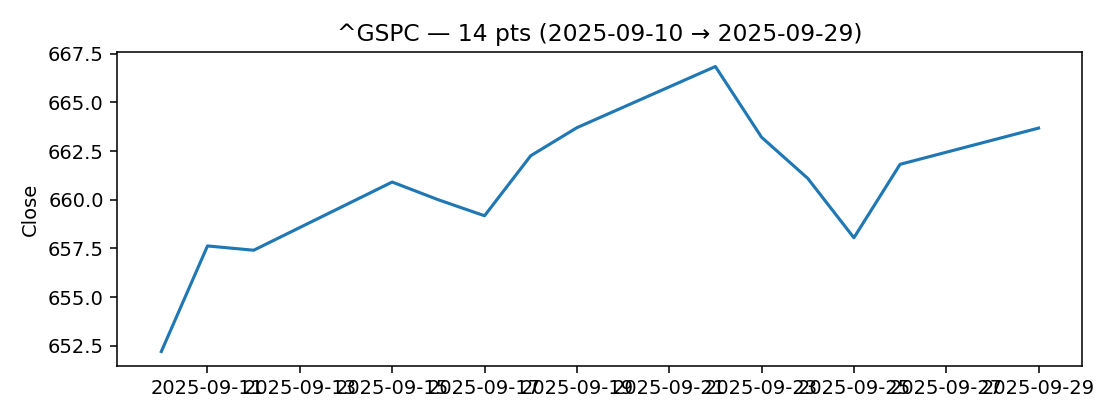
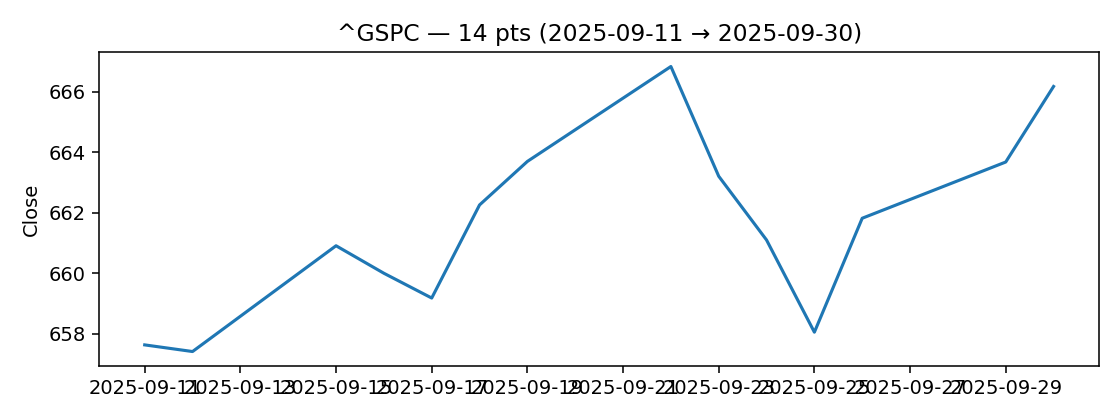
chore: update daily report 2025-10-01 08:52

diff --git a/docs/daily_report.html b/docs/daily_report.html
@@ -108,7 +108,7 @@
   <header>
     <div>
       <h1>Daily Study & News Companion</h1>
-      <div class="sub">2025-09-30 08:08 · TZ: CST</div>
+      <div class="sub">2025-10-01 08:37 · TZ: CST</div>
     </div>
     <button class="btn" id="themeBtn">🌓 Tema</button>
   </header>
@@ -150,11 +150,11 @@
           </div>
           <div class="mkt-body">
             <div class="metrics-row">
-          <div class="kv"><span>Last</span><b>222.17</b></div>
-          <div class="kv"><span>d/d</span><b class="down">-3.54%</b></div>
+          <div class="kv"><span>Last</span><b>219.57</b></div>
+          <div class="kv"><span>d/d</span><b class="down">-4.51%</b></div>
           <div class="kv"><span>Mín</span><b>218.15</b></div>
           <div class="kv"><span>Máx</span><b>234.05</b></div>
-          <div class="kv"><span>σ</span><b>5.27</b></div>
+          <div class="kv"><span>σ</span><b>5.50</b></div>
         </div>
             <div class="chart"><img src="charts/AMZN_close.png" alt="AMZN chart" loading="lazy"/></div>
           </div>
@@ -167,11 +167,11 @@
           </div>
           <div class="mkt-body">
             <div class="metrics-row">
-          <div class="kv"><span>Last</span><b>514.60</b></div>
-          <div class="kv"><span>d/d</span><b class="up">2.84%</b></div>
-          <div class="kv"><span>Mín</span><b>500.37</b></div>
-          <div class="kv"><span>Máx</span><b>517.93</b></div>
-          <div class="kv"><span>σ</span><b>4.79</b></div>
+          <div class="kv"><span>Last</span><b>517.95</b></div>
+          <div class="kv"><span>d/d</span><b class="up">3.38%</b></div>
+          <div class="kv"><span>Mín</span><b>501.01</b></div>
+          <div class="kv"><span>Máx</span><b>517.95</b></div>
+          <div class="kv"><span>σ</span><b>4.41</b></div>
         </div>
             <div class="chart"><img src="charts/MSFT_close.png" alt="MSFT chart" loading="lazy"/></div>
           </div>
@@ -184,11 +184,11 @@
           </div>
           <div class="mkt-body">
             <div class="metrics-row">
-          <div class="kv"><span>Last</span><b>181.85</b></div>
-          <div class="kv"><span>d/d</span><b class="up">2.55%</b></div>
+          <div class="kv"><span>Last</span><b>186.58</b></div>
+          <div class="kv"><span>d/d</span><b class="up">5.31%</b></div>
           <div class="kv"><span>Mín</span><b>170.29</b></div>
-          <div class="kv"><span>Máx</span><b>183.61</b></div>
-          <div class="kv"><span>σ</span><b>2.92</b></div>
+          <div class="kv"><span>Máx</span><b>186.58</b></div>
+          <div class="kv"><span>σ</span><b>3.74</b></div>
         </div>
             <div class="chart"><img src="charts/NVDA_close.png" alt="NVDA chart" loading="lazy"/></div>
           </div>
@@ -201,11 +201,11 @@
           </div>
           <div class="mkt-body">
             <div class="metrics-row">
-          <div class="kv"><span>Last</span><b>443.21</b></div>
-          <div class="kv"><span>d/d</span><b class="up">27.44%</b></div>
-          <div class="kv"><span>Mín</span><b>347.79</b></div>
-          <div class="kv"><span>Máx</span><b>443.21</b></div>
-          <div class="kv"><span>σ</span><b>26.84</b></div>
+          <div class="kv"><span>Last</span><b>444.72</b></div>
+          <div class="kv"><span>d/d</span><b class="up">20.58%</b></div>
+          <div class="kv"><span>Mín</span><b>368.81</b></div>
+          <div class="kv"><span>Máx</span><b>444.72</b></div>
+          <div class="kv"><span>σ</span><b>20.00</b></div>
         </div>
             <div class="chart"><img src="charts/TSLA_close.png" alt="TSLA chart" loading="lazy"/></div>
           </div>
@@ -218,11 +218,11 @@
           </div>
           <div class="mkt-body">
             <div class="metrics-row">
-          <div class="kv"><span>Last</span><b>663.68</b></div>
-          <div class="kv"><span>d/d</span><b class="up">1.76%</b></div>
-          <div class="kv"><span>Mín</span><b>652.21</b></div>
+          <div class="kv"><span>Last</span><b>666.18</b></div>
+          <div class="kv"><span>d/d</span><b class="up">1.30%</b></div>
+          <div class="kv"><span>Mín</span><b>657.41</b></div>
           <div class="kv"><span>Máx</span><b>666.84</b></div>
-          <div class="kv"><span>σ</span><b>3.46</b></div>
+          <div class="kv"><span>σ</span><b>2.87</b></div>
         </div>
             <div class="chart"><img src="charts/^GSPC_close.png" alt="^GSPC chart" loading="lazy"/></div>
           </div>
@@ -250,38 +250,38 @@
             <ul class="news-list">
               <li class="news-item" data-topic="AI">
                 <span class="dot"></span>
-                <a href="https://www.bloomberg.com/news/articles/2025-09-30/alphabet-s-ai-strength-fuels-biggest-quarterly-jump-since-2005" target="_blank" rel="noreferrer">Alphabet’s AI Strength Fuels Biggest Quarterly Jump Since 2005</a>
-                <div class="meta">2025-09-30 13:46 · <span class="src">Ryan Vlastelica</span></div>
+                <a href="https://www.bloomberg.com/news/articles/2025-10-01/google-smart-home-revamp-2k-cameras-doorbell-home-speaker-and-gemini-ai" target="_blank" rel="noreferrer">Google Brings Gemini AI to the Home With New Cameras, Doorbell and Speaker</a>
+                <div class="meta">2025-10-01 13:00 · <span class="src">Chris Welch</span></div>
               </li>
             
               <li class="news-item" data-topic="AI">
                 <span class="dot"></span>
-                <a href="https://www.bloomberg.com/news/articles/2025-09-30/ai-computing-chip-startup-cerebras-systems-raises-1-1-billion" target="_blank" rel="noreferrer">AI Computing, Chip Startup Cerebras Systems Raises $1.1 Billion</a>
-                <div class="meta">2025-09-30 13:00 · <span class="src">Ian King</span></div>
+                <a href="https://www.bloomberg.com/news/articles/2025-10-01/google-s-europe-boss-calls-for-changes-to-problematic-eu-rules" target="_blank" rel="noreferrer">Google’s Europe Boss Calls for Changes to ‘Problematic’ EU Rules</a>
+                <div class="meta">2025-10-01 12:04 · <span class="src">Mark Bergen</span></div>
               </li>
             
               <li class="news-item" data-topic="AI">
                 <span class="dot"></span>
-                <a href="https://www.ft.com/content/908dc05b-5fcd-456a-88a3-eba1f77d3ffd" target="_blank" rel="noreferrer">OpenAI’s era-defining money furnace</a>
-                <div class="meta">2025-09-30 11:54 · <span class="src">www.ft.com</span></div>
+                <a href="https://www.bloomberg.com/news/articles/2025-10-01/peloton-launches-new-bike-tread-row-with-ai-and-cameras-raises-prices" target="_blank" rel="noreferrer">Peloton Launches New Bikes and Treadmills with AI, Hikes Prices</a>
+                <div class="meta">2025-10-01 11:00 · <span class="src">Samantha Kelly</span></div>
               </li>
             
               <li class="news-item" data-topic="AI">
                 <span class="dot"></span>
-                <a href="https://www.bloomberg.com/news/articles/2025-09-29/stripe-joins-with-openai-to-allow-purchases-with-chatgpt" target="_blank" rel="noreferrer">Stripe Joins With OpenAI to Allow Etsy Purchases Via ChatGPT</a>
-                <div class="meta">2025-09-29 19:10 · <span class="src">Emily Mason</span></div>
+                <a href="https://www.bloomberg.com/news/articles/2025-10-01/samsung-sk-hynix-ink-deal-to-supply-gear-to-openai-s-stargate" target="_blank" rel="noreferrer">Samsung, SK Hynix Ink Deal to Supply Gear to OpenAI’s Stargate</a>
+                <div class="meta">2025-10-01 09:52 · <span class="src">Yoolim Lee</span></div>
               </li>
             
               <li class="news-item" data-topic="AI">
                 <span class="dot"></span>
-                <a href="https://www.bloomberg.com/news/articles/2025-09-29/deepseek-debuts-sparse-attention-method-in-next-gen-ai-model" target="_blank" rel="noreferrer">DeepSeek Debuts ‘Sparse Attention’ Next-Generation AI Model</a>
-                <div class="meta">2025-09-29 11:54 · <span class="src">Saritha Rai</span></div>
+                <a href="https://www.bloomberg.com/news/articles/2025-10-01/nscale-raises-433-million-days-after-closing-1-1-billion-round" target="_blank" rel="noreferrer">Nscale Raises $433 Million Days After Closing $1.1 Billion Round</a>
+                <div class="meta">2025-10-01 08:58 · <span class="src">Mark Bergen, Amy Thomson</span></div>
               </li>
             
               <li class="news-item" data-topic="AI">
                 <span class="dot"></span>
-                <a href="https://www.bloomberg.com/news/articles/2025-09-29/huawei-to-double-output-of-top-ai-chip-as-nvidia-wavers-in-china" target="_blank" rel="noreferrer">Huawei to Double Output of AI Chip as Nvidia Wavers in China</a>
-                <div class="meta">2025-09-29 09:46 · <span class="src">Yuan Gao</span></div>
+                <a href="https://www.bloomberg.com/news/articles/2025-09-30/legal-ai-startup-legora-in-talks-to-raise-funding-at-1-7-billion-value" target="_blank" rel="noreferrer">Legora, a Startup Using AI to Tackle Routine Legal Work, in Talks to Raise at $1.7 Billion Value</a>
+                <div class="meta">2025-09-30 17:00 · <span class="src">Yazhou Sun</span></div>
               </li>
             </ul>
           </div>
@@ -291,38 +291,38 @@
             <ul class="news-list">
               <li class="news-item" data-topic="Fintech">
                 <span class="dot"></span>
-                <a href="https://www.bloomberg.com/news/articles/2025-09-30/santander-head-of-us-real-estate-investment-banking-set-to-exit" target="_blank" rel="noreferrer">Santander Head of US Real Estate Investment Banking Set to Exit</a>
-                <div class="meta">2025-09-30 13:38 · <span class="src">Rodrigo Orihuela, Jorge Zuloaga</span></div>
+                <a href="https://www.bloomberg.com/news/articles/2025-10-01/wall-street-s-top-underwriter-caught-off-guard-as-bond-binge-tops-207-billion" target="_blank" rel="noreferrer">BofA Surprised by September’s Record Corporate-Bond Binge</a>
+                <div class="meta">2025-10-01 13:39 · <span class="src">Caleb Mutua</span></div>
               </li>
             
               <li class="news-item" data-topic="Fintech">
                 <span class="dot"></span>
-                <a href="https://www.bloomberg.com/news/articles/2025-09-30/nordea-said-to-plan-srt-tied-to-1-7-billion-of-corporate-loans" target="_blank" rel="noreferrer">Nordea Said to Plan SRT Tied to €1.7 Billion of Loans</a>
-                <div class="meta">2025-09-30 13:14 · <span class="src">Esteban Duarte, Evelina Youcefi</span></div>
+                <a href="https://www.bloomberg.com/news/articles/2025-10-01/dollar-slump-puts-share-of-foreign-reserves-at-30-year-low" target="_blank" rel="noreferrer">Dollar Slump Puts Share of Foreign Reserves at 30-Year Low</a>
+                <div class="meta">2025-10-01 13:00 · <span class="src">Carter Johnson</span></div>
               </li>
             
               <li class="news-item" data-topic="Fintech">
                 <span class="dot"></span>
-                <a href="https://www.bloomberg.com/news/articles/2025-09-30/yuan-trading-surges-to-close-in-on-pound-as-fourth-biggest-currency" target="_blank" rel="noreferrer">Yuan Moves Closer to Replacing Pound as 4th Most-Traded Currency</a>
-                <div class="meta">2025-09-30 13:00 · <span class="src">Greg Ritchie</span></div>
+                <a href="https://www.bloomberg.com/news/articles/2025-10-01/trump-s-proposed-changes-to-visa-rules-assailed-by-chip-industry" target="_blank" rel="noreferrer">Trump’s Proposed Changes to Visa Rules Assailed by Chip Industry</a>
+                <div class="meta">2025-10-01 11:00 · <span class="src">Maggie Eastland</span></div>
               </li>
             
               <li class="news-item" data-topic="Fintech">
                 <span class="dot"></span>
-                <a href="https://www.bloomberg.com/news/articles/2025-09-30/global-fx-trading-soars-to-9-6-trillion-amid-tariffs-bis-says" target="_blank" rel="noreferrer">Global FX Trading Soars to $9.6 Trillion Amid Tariffs, BIS Says</a>
-                <div class="meta">2025-09-30 13:00 · <span class="src">Greg Ritchie</span></div>
+                <a href="https://www.bloomberg.com/news/articles/2025-10-01/at1-bond-market-notches-record-bull-run-on-rosy-bank-outlook" target="_blank" rel="noreferrer">AT1 Bond Market Notches Record Bull Run on Rosy Bank Outlook</a>
+                <div class="meta">2025-10-01 07:13 · <span class="src">Tasos Vossos</span></div>
               </li>
             
               <li class="news-item" data-topic="Fintech">
                 <span class="dot"></span>
-                <a href="https://www.bloomberg.com/news/articles/2025-09-30/private-market-blowups-highlight-dangers-for-retail-investors" target="_blank" rel="noreferrer">Private Market Blowups Highlight Perils for Retail Investors</a>
-                <div class="meta">2025-09-30 13:00 · <span class="src">Steven Church, Sabrina Willmer</span></div>
+                <a href="https://www.bloomberg.com/news/articles/2025-10-01/rbi-unveils-raft-of-measures-to-expand-rupee-globalization-push" target="_blank" rel="noreferrer">India Unveils Raft of Measures to Expand Rupee Globalization</a>
+                <div class="meta">2025-10-01 06:57 · <span class="src">Bhaskar Dutta</span></div>
               </li>
             
               <li class="news-item" data-topic="Fintech">
                 <span class="dot"></span>
-                <a href="https://www.bloomberg.com/news/articles/2025-09-30/japanese-rate-trading-surges-684-as-boj-hikes-revive-market" target="_blank" rel="noreferrer">Japanese Rate Trading Surges 684% as BOJ Hikes Revive Market</a>
-                <div class="meta">2025-09-30 13:00 · <span class="src">Greg Ritchie</span></div>
+                <a href="https://www.bloomberg.com/news/articles/2025-09-30/stock-market-today-dow-s-p-live-updates" target="_blank" rel="noreferrer">Treasuries Rally on ADP Jobs Data; Stocks Drop: Markets Wrap</a>
+                <div class="meta">2025-09-30 22:35 · <span class="src">Rheaa Rao</span></div>
               </li>
             </ul>
           </div>
@@ -332,38 +332,38 @@
             <ul class="news-list">
               <li class="news-item" data-topic="General">
                 <span class="dot"></span>
-                <a href="https://www.bloomberg.com/news/articles/2025-09-30/ardian-s-french-retailer-prosol-said-to-draw-interest-from-cd-r" target="_blank" rel="noreferrer">Ardian’s French Retailer Prosol Said to Draw Interest from CD&amp;R</a>
-                <div class="meta">2025-09-30 13:48 · <span class="src">Pamela Barbaglia, Swetha Gopinath</span></div>
+                <a href="https://www.bloomberg.com/news/articles/2025-10-01/italy-budget-draft-puts-deficit-at-eu-s-3-limit-already-in-2025" target="_blank" rel="noreferrer">Italy Budget Draft Puts Deficit at EU’s 3% Limit Already in 2025</a>
+                <div class="meta">2025-10-01 13:52 · <span class="src">Alessandra Migliaccio</span></div>
               </li>
             
               <li class="news-item" data-topic="General">
                 <span class="dot"></span>
-                <a href="https://www.bloomberg.com/news/articles/2025-09-30/stocks-steady-as-shutdown-looms-coreweave-soars-on-deal-with-meta" target="_blank" rel="noreferrer">Stocks Steady as Shutdown Looms; CoreWeave Soars on Deal With Meta</a>
-                <div class="meta">2025-09-30 13:40 · <span class="src">Natalia Kniazhevich</span></div>
+                <a href="https://www.bloomberg.com/news/articles/2025-10-01/stocks-drop-as-government-shutdown-starts-lithium-americas-soars" target="_blank" rel="noreferrer">Stocks Drop as Government Shutdown Starts; Lithium Americas Soars</a>
+                <div class="meta">2025-10-01 13:44 · <span class="src">Natalia Kniazhevich</span></div>
               </li>
             
               <li class="news-item" data-topic="General">
                 <span class="dot"></span>
-                <a href="https://www.bloomberg.com/news/articles/2025-09-30/kuwait-egypt-get-over-29-billion-demand-for-dollar-bond-offers" target="_blank" rel="noreferrer">Kuwait and Egypt Get Over $29 Billion Demand for Dollar Bond Offers</a>
-                <div class="meta">2025-09-30 12:22 · <span class="src">Mirette Magdy, Srinivasan Sivabalan</span></div>
+                <a href="https://www.bloomberg.com/news/videos/2025-10-01/jobs-surveys-show-concerning-weakness-in-labor-pimco-video" target="_blank" rel="noreferrer">Jobs Surveys Show ‘Concerning Weakness’ in Labor, Says Pimco Economist Wilding</a>
+                <div class="meta">2025-10-01 13:34 · <span class="src">www.bloomberg.com</span></div>
               </li>
             
               <li class="news-item" data-topic="General">
                 <span class="dot"></span>
-                <a href="https://www.bloomberg.com/news/articles/2025-09-30/kuwait-starts-its-first-sale-of-dollar-bonds-in-eight-years" target="_blank" rel="noreferrer">Bids Top $27.7 billion in Kuwait’s First Eurobond Since 2017</a>
-                <div class="meta">2025-09-30 05:36 · <span class="src">Olga Voitova</span></div>
+                <a href="https://www.bloomberg.com/news/articles/2025-10-01/ars-usd-currency-arbitrage-costs-milei-2-billion-a-month-in-argentina" target="_blank" rel="noreferrer">Currency Arbitrage Costs Milei $2 Billion a Month in Argentina</a>
+                <div class="meta">2025-10-01 13:30 · <span class="src">Ignacio Olivera Doll</span></div>
               </li>
             
               <li class="news-item" data-topic="General">
                 <span class="dot"></span>
-                <a href="https://www.bloomberg.com/news/articles/2025-09-29/stock-market-today-dow-s-p-live-updates" target="_blank" rel="noreferrer">Stocks Slip on Shutdown Worries; Oil Prices Drop: Markets Wrap</a>
-                <div class="meta">2025-09-29 22:35 · <span class="src">Rheaa Rao</span></div>
+                <a href="https://www.bloomberg.com/news/articles/2025-10-01/turkey-s-vestel-in-talks-to-swap-lira-loans-into-hard-currency" target="_blank" rel="noreferrer">Vestel in Talks to Swap Lira Loans Into Hard Currency</a>
+                <div class="meta">2025-10-01 12:03 · <span class="src">Kerim Karakaya, Constantine Courcoulas</span></div>
               </li>
             
               <li class="news-item" data-topic="General">
                 <span class="dot"></span>
-                <a href="https://www.bloomberg.com/news/videos/2025-09-29/ceo-s-discuss-the-future-of-global-infrastructure-video" target="_blank" rel="noreferrer">Brookfield, Macquarie and GIP on Global Infrastructure</a>
-                <div class="meta">2025-09-29 14:38 · <span class="src">www.bloomberg.com</span></div>
+                <a href="https://www.bloomberg.com/news/articles/2025-10-01/brown-and-northwestern-endowments-turn-to-secondary-markets" target="_blank" rel="noreferrer">Brown and Northwestern Endowments Turn to Secondary Markets</a>
+                <div class="meta">2025-10-01 10:35 · <span class="src">Meg Short, Janet Lorin</span></div>
               </li>
             </ul>
           </div>
@@ -373,38 +373,38 @@
             <ul class="news-list">
               <li class="news-item" data-topic="Machine Learning">
                 <span class="dot"></span>
-                <a href="https://www.bloomberg.com/news/articles/2025-09-30/china-s-september-home-sales-steady-in-sign-of-stabilization" target="_blank" rel="noreferrer">China’s September Home Sales Steady in Sign of Stabilization</a>
-                <div class="meta">2025-09-30 11:25 · <span class="src">Charlie Zhu, Emma Dong</span></div>
+                <a href="https://www.bloomberg.com/news/videos/2025-10-01/us-private-payrolls-fall-by-32-000-in-september-adp-video" target="_blank" rel="noreferrer">US Private Payrolls Fall by 32,000 in September: ADP</a>
+                <div class="meta">2025-10-01 12:37 · <span class="src">www.bloomberg.com</span></div>
               </li>
             
               <li class="news-item" data-topic="Machine Learning">
                 <span class="dot"></span>
-                <a href="https://www.bloomberg.com/news/newsletters/2025-09-30/china-s-chip-rally-shows-ai-froth-spilling-eastward" target="_blank" rel="noreferrer">China’s Chip Rally Shows AI Froth Spilling Eastward</a>
-                <div class="meta">2025-09-30 11:01 · <span class="src">Yuan Gao, Vlad Savov</span></div>
+                <a href="https://www.bloomberg.com/news/videos/2025-10-01/the-opening-trade-10-1-video" target="_blank" rel="noreferrer">US Government Shuts Down & Bloomberg's Women, Money & Power Event Kicks Off | The Opening Trade 10/1</a>
+                <div class="meta">2025-10-01 12:26 · <span class="src">www.bloomberg.com</span></div>
               </li>
             
               <li class="news-item" data-topic="Machine Learning">
                 <span class="dot"></span>
-                <a href="https://www.bloomberg.com/news/articles/2025-09-30/chinese-hackers-breach-foreign-ministers-email-servers" target="_blank" rel="noreferrer">Chinese Hackers Breached Foreign Ministers’ Email Servers</a>
-                <div class="meta">2025-09-30 10:00 · <span class="src">Emily Forgash</span></div>
+                <a href="https://www.bloomberg.com/news/newsletters/2025-10-01/nato-fund-to-borrow-from-covid-playbook-to-counter-russian-threat" target="_blank" rel="noreferrer">NATO Fund to Borrow From Covid Playbook to Counter Russian Threat</a>
+                <div class="meta">2025-10-01 11:02 · <span class="src">Mark Bergen</span></div>
               </li>
             
               <li class="news-item" data-topic="Machine Learning">
                 <span class="dot"></span>
-                <a href="https://www.bloomberg.com/news/articles/2025-09-30/israeli-stocks-rise-to-record-after-trump-unveils-gaza-plan" target="_blank" rel="noreferrer">Israeli Stocks Rise to Record After Trump Unveils Gaza Plan</a>
-                <div class="meta">2025-09-30 09:47 · <span class="src">Srinivasan Sivabalan</span></div>
+                <a href="https://techcrunch.com/2025/10/01/epic-games-says-apples-new-install-process-cuts-user-drop-offs-by-60/" target="_blank" rel="noreferrer">Epic Games says Apple’s new install process cuts user drop-offs by 60%</a>
+                <div class="meta">2025-10-01 09:00 · <span class="src">Ivan Mehta</span></div>
               </li>
             
               <li class="news-item" data-topic="Machine Learning">
                 <span class="dot"></span>
-                <a href="https://www.bloomberg.com/news/articles/2025-09-30/zijin-gold-miners-stage-comeback-as-equity-sales-surge-to-record-high" target="_blank" rel="noreferrer">Gold Miners Stage Comeback as Share Sales Surge to Record High</a>
-                <div class="meta">2025-09-30 08:35 · <span class="src">Yvonne Yue Li, Sybilla Gross</span></div>
+                <a href="https://www.bloomberg.com/news/articles/2025-10-01/dollar-extends-losing-streak-as-us-government-shutdown-begins" target="_blank" rel="noreferrer">Dollar Extends Declines as US Government Shutdown Begins</a>
+                <div class="meta">2025-10-01 08:56 · <span class="src">Vassilis Karamanis, Carter Johnson</span></div>
               </li>
             
               <li class="news-item" data-topic="Machine Learning">
                 <span class="dot"></span>
-                <a href="https://www.bloomberg.com/news/videos/2025-09-29/world-bank-group-s-ajay-banja-on-mission-300-video" target="_blank" rel="noreferrer">World Bank, African Development Bank discuss Mission 300</a>
-                <div class="meta">2025-09-29 14:44 · <span class="src">www.bloomberg.com</span></div>
+                <a href="https://www.ft.com/content/26e05fa2-8696-4b3d-88dd-71810389ab48" target="_blank" rel="noreferrer">Nvidia challenger Cerebras raises $1.1bn ahead of IPO</a>
+                <div class="meta">2025-09-30 13:00 · <span class="src">www.ft.com</span></div>
               </li>
             </ul>
           </div>
@@ -414,7 +414,7 @@
     </main>
   </div>
 
-  <footer>Generado localmente · 2025-09-30 08:08</footer>
+  <footer>Generado localmente · 2025-10-01 08:37</footer>
 
   <script>
     'use strict';
